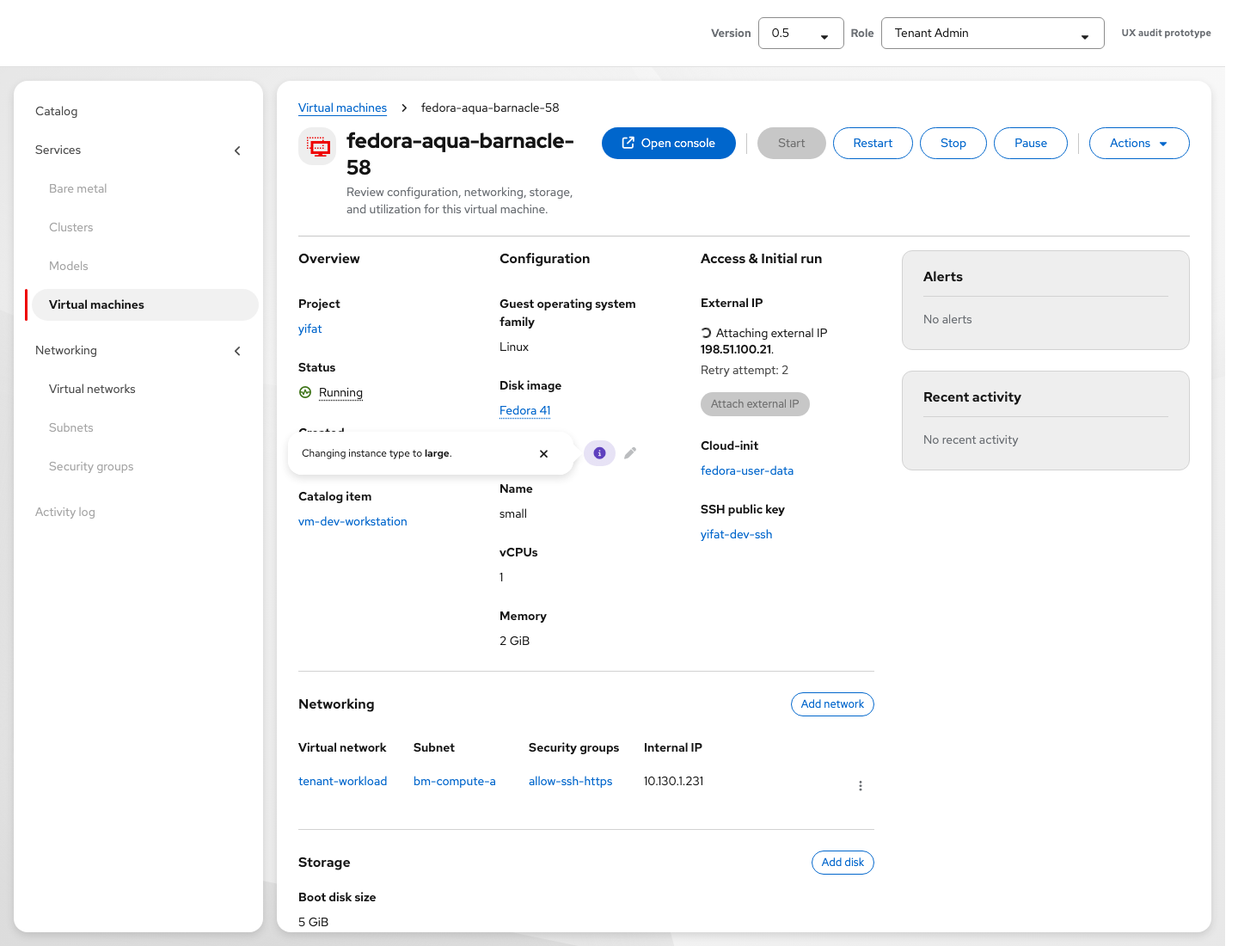
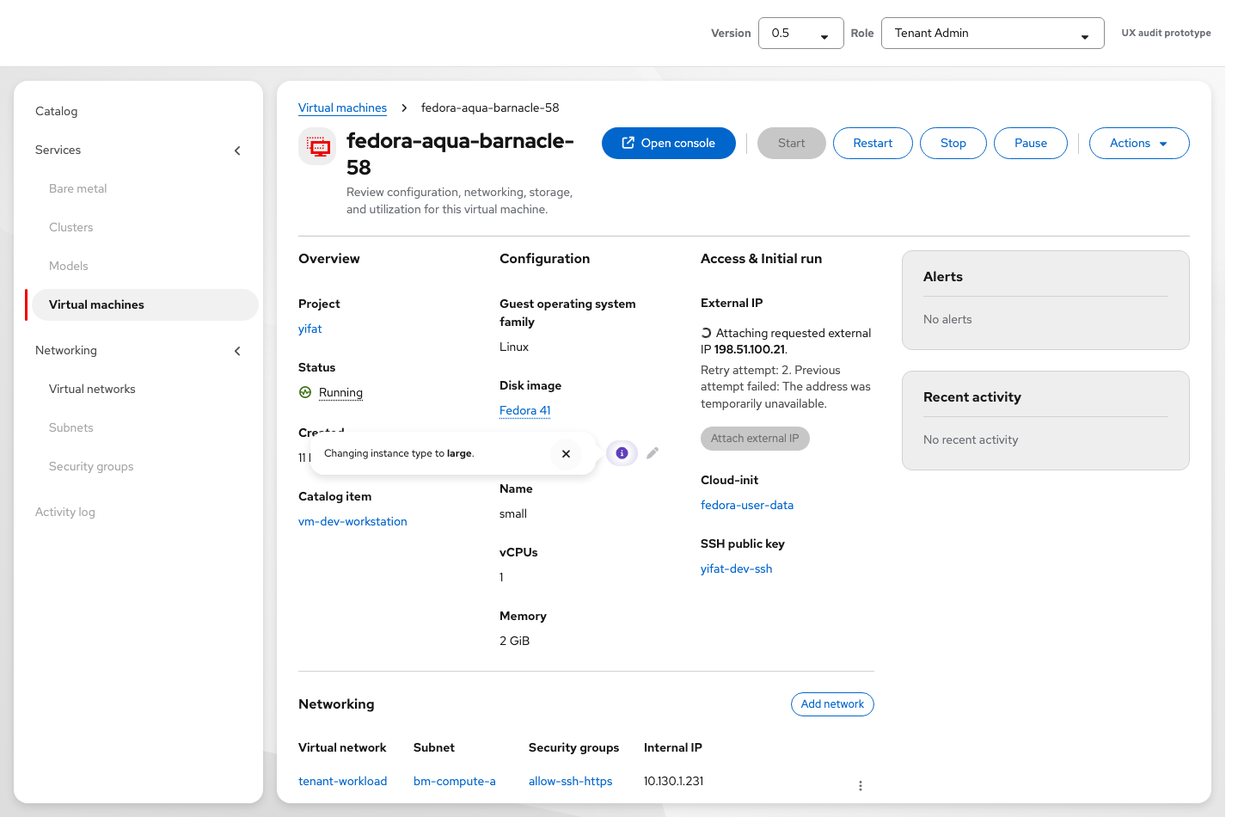
OSAC-7158: clarify configuration operation feedback
Assisted-by: Cursor <cursoragent@cursor.com>

diff --git a/apps/app-frontend/public/vmaas-ux-prototype.html b/apps/app-frontend/public/vmaas-ux-prototype.html
@@ -1338,10 +1338,16 @@
     .vm-configuration-label {
       display: inline-flex;
       align-items: center;
+      border: 0;
+      padding: 0;
+      background: transparent;
+      cursor: pointer;
+      font-family: inherit;
       color: var(--pf-t--global--text--color--subtle, #6a6e73);
       font-size: 14px;
       text-align: left;
     }
+    .vm-configuration-label:hover { text-decoration: underline dotted; text-underline-offset: 3px; }
     .vm-configuration-label--failed { color: var(--pf-t--global--text--color--status--danger--default, #c9190b); }
     .vm-configuration-label:focus-visible {
       outline: 2px solid var(--vmaas-blue);
@@ -2283,14 +2289,14 @@
       width: min(100vw - 24px, 18.75rem);
     }
     #nic-detail-popover.pf-m-open { display: block; }
-    #status-popover {
+    #status-popover, #vm-configuration-popover {
       position: fixed;
       z-index: 10000;
       display: none;
       width: min(100vw - 24px, 18.75rem);
     }
-    #status-popover.pf-m-open { display: block; }
-    #status-popover[hidden] { display: none !important; }
+    #status-popover.pf-m-open, #vm-configuration-popover.pf-m-open { display: block; }
+    #status-popover[hidden], #vm-configuration-popover[hidden] { display: none !important; }
     #nic-detail-popover .nic-detail-dl {
       display: grid;
       grid-template-columns: max-content 1fr;
@@ -8550,7 +8556,7 @@
         computeResource: 'large',
         activeComputeId: 'small',
         resizeProgress: {
-          phase: 'hot', retryAttempt: 2, retryLimit: 3, startedAtMs: Date.now() - 2 * 60000,
+          phase: 'hot', retryAttempt: 2, retryLimit: 3, lastFailureReason: 'The instance type was temporarily unavailable.', startedAtMs: Date.now() - 2 * 60000,
           startedAt: new Date(Date.now() - 2 * 60000).toLocaleString('en-GB'),
           lastUpdatedAt: new Date(Date.now() - 60000).toLocaleString('en-GB'),
           changes: [
@@ -8584,8 +8590,8 @@
       { name: 'rhel-deleting-cedar-42', ns: 'yifat', status: 'deleting', os: 'RHEL', osFull: 'Red Hat Enterprise Linux 9', imageLabel: 'RHEL 9.4', catalogItem: 'vm-inference-standard', conditions: ['Deleting=True'], node: 'cnvge-079.lab.eng.thv2.redhat.com', ip: '10.130.1.242', internalIp: '10.130.1.242', externalIp: '198.51.100.24', externalIpAttached: true, externalIpStatus: 'attached', created: '19 Nov 2026, 15:40', computeResource: 'small', nics: [{ name: 'tenant-workload', virtualNetwork: 'tenant-workload', subnet: 'bm-compute-a', securityGroups: ['allow-ssh-https'], ip: '10.130.1.242' }] },
       { name: 'rhel9-black-gunnysack-58', ns: 'project-a', status: 'running', os: 'RHEL', osFull: 'Red Hat Enterprise Linux 9', imageLabel: 'RHEL 9.4', catalogItem: 'vm-gpu-training-server', conditions: ['DataVolumesReady=True', 'Ready=True'], node: 'cnvge-080.lab.eng.thv2.redhat.com', ip: '10.130.1.224', created: '19 Jan 2026, 7:29', computeResource: 'large-gpu', gpuDevices: [{ name: 'NVIDIA A100 80 GB' }], hostDevices: [{ name: 'host-pci-1' }], sshSecretId: 'ssh-cluster-admin', cloudInitSource: 'inline', cloudInit: '#cloud-config\npackages:\n  - nginx\n', bootDiskAccessMode: 'RWO' },
       { name: 'windows-golden-eider-58', ns: 'project-a', status: 'stopped', os: 'Windows', osFull: 'Microsoft Windows Server 2022', imageLabel: 'Windows Server 2022', catalogItem: 'vm-windows-workstation', conditions: ['Ready=True'], node: 'cnvge-079.lab.eng.thv2.redhat.com', ip: '—', created: '11 Feb 2026, 9:48', sysprepConfigured: true, sysprepSecretId: 'sysprep-corp-std', bootDiskAccessMode: 'RWO' },
-      { name: 'fedora-aqua-barnacle-58', ns: 'yifat', status: 'running', os: 'Fedora', osFull: 'Fedora Linux 41', imageLabel: 'Fedora 41', catalogItem: 'vm-dev-workstation', conditions: ['DataVolumesReady=True', 'LiveMigratable=True'], node: 'cnvge-081.lab.eng.thv2.redhat.com', ip: '10.130.1.231', created: '11 Feb 2026, 8:49', computeResource: 'large', activeComputeId: 'small', resizeProgress: { phase: 'after-restart', startedAtMs: Date.now() - 8 * 60000, startedAt: new Date(Date.now() - 8 * 60000).toLocaleString('en-GB'), lastUpdatedAt: new Date(Date.now() - 5 * 60000).toLocaleString('en-GB'), changes: [{ section: 'Configuration', label: 'Instance type', from: 'small', to: 'large' }, { section: 'Configuration', label: 'vCPUs', from: '1 vCPU', to: '2 vCPUs' }, { section: 'Configuration', label: 'Memory', from: '2 GiB', to: '8 GiB' }] }, externalIpStatus: 'attaching', externalIpPending: '198.51.100.21', externalIpRetryAttempt: 2, hostDevices: [{ name: 'host-usb-1' }], sshSecretId: 'ssh-yifat-dev', cloudInitSource: 'secret', cloudInitSecretId: 'ud-fedora-init' },
-      { name: 'debian-cobalt-heron-41', ns: 'yifat', status: 'running', os: 'Other', osFull: 'Debian 12', imageLabel: 'Debian 12', catalogItem: 'vm-dev-workstation', conditions: ['Ready=True'], node: 'cnvge-081.lab.eng.thv2.redhat.com', ip: '10.130.1.238', created: '10 Nov 2026, 16:05', computeResource: 'large', activeComputeId: 'small', resizeFailure: { reason: 'The requested instance type is unavailable. The VM is still using its previous resources.', retryPlanned: false }, bootDiskAccessMode: 'RWO' },
+      { name: 'fedora-aqua-barnacle-58', ns: 'yifat', status: 'running', os: 'Fedora', osFull: 'Fedora Linux 41', imageLabel: 'Fedora 41', catalogItem: 'vm-dev-workstation', conditions: ['DataVolumesReady=True', 'LiveMigratable=True'], node: 'cnvge-081.lab.eng.thv2.redhat.com', ip: '10.130.1.231', created: '11 Feb 2026, 8:49', computeResource: 'large', activeComputeId: 'small', resizeProgress: { phase: 'after-restart', startedAtMs: Date.now() - 8 * 60000, startedAt: new Date(Date.now() - 8 * 60000).toLocaleString('en-GB'), lastUpdatedAt: new Date(Date.now() - 5 * 60000).toLocaleString('en-GB'), changes: [{ section: 'Configuration', label: 'Instance type', from: 'small', to: 'large' }, { section: 'Configuration', label: 'vCPUs', from: '1 vCPU', to: '2 vCPUs' }, { section: 'Configuration', label: 'Memory', from: '2 GiB', to: '8 GiB' }] }, externalIpStatus: 'attaching', externalIpPending: '198.51.100.21', externalIpRetryAttempt: 2, externalIpLastFailureReason: 'The address was temporarily unavailable.', hostDevices: [{ name: 'host-usb-1' }], sshSecretId: 'ssh-yifat-dev', cloudInitSource: 'secret', cloudInitSecretId: 'ud-fedora-init' },
+      { name: 'debian-cobalt-heron-41', ns: 'yifat', status: 'running', os: 'Other', osFull: 'Debian 12', imageLabel: 'Debian 12', catalogItem: 'vm-dev-workstation', conditions: ['Ready=True'], node: 'cnvge-081.lab.eng.thv2.redhat.com', ip: '10.130.1.238', created: '10 Nov 2026, 16:05', computeResource: 'large', activeComputeId: 'small', resizeFailure: { reason: 'The requested instance type is unavailable. The VM is still using its previous resources.', retryPlanned: false }, externalIpStatus: 'failed', externalIpAttempted: '198.51.100.99', externalIpError: 'We couldn’t attach external IP 198.51.100.99 to this VM.', externalIpRetryPlanned: false, bootDiskAccessMode: 'RWO' },
       { name: 'ubuntu-copper-ibis-31', ns: 'project-a', status: 'running', os: 'Other', osFull: 'Ubuntu 24.04 LTS', imageLabel: 'Ubuntu 24.04 LTS', catalogItem: 'vm-dev-workstation', conditions: ['Ready=True'], node: 'cnvge-081.lab.eng.thv2.redhat.com', ip: '10.130.1.239', created: '18 Nov 2026, 11:40', computeResource: 'large', activeComputeId: 'small', resizeFailure: { reason: 'The requested instance type is unavailable. The VM is still using its previous resources.', retryPlanned: false }, externalIpStatus: 'attaching', externalIpPending: '198.51.100.22', externalIpRetryAttempt: 2, bootDiskAccessMode: 'RWO' },
       { name: 'rhel8-mystic-eagle-22', ns: 'vmaas', status: 'ErrorPvcNotFound', os: 'RHEL', osFull: 'Red Hat Enterprise Linux 8', imageLabel: 'RHEL 8.10', catalogItem: 'vm-legacy-app-server', conditions: ['Provisioning=False', 'Ready=False'], node: 'cnvge-080.lab.eng.thv2.redhat.com', ip: '—', created: '22 Jan 2026, 14:42', alerts: [{ severity: 'warning', message: 'Boot disk is unavailable' }, { severity: 'warning', message: 'Virtual machine is not Ready' }], bootDiskAccessMode: 'RWO' },
       { name: 'gpu-provisioning-failed', ns: 'project-a', status: 'starting', provisioningFailed: true, provisioningFailureReason: 'ProvisioningFailed', provisioningFailureMessage: 'AAP job failed', os: 'RHEL', osFull: 'Red Hat Enterprise Linux 9', imageLabel: 'RHEL 9.4', computeResource: 'small-gpu', conditions: ['PROVISIONED=False', 'ProvisioningFailed'], node: '—', ip: '—', created: '9 Nov 2026, 15:57' },
@@ -9012,11 +9018,73 @@
       const ipTarget = vm.externalIpPending || vm.externalIpAttempted || 'the selected address';
       if (ipStatus === 'failed') details.push(`External IP attachment for ${ipTarget} failed`);
       else if (ipStatus === 'attaching') details.push(`Attaching external IP ${ipTarget}`);
-      const tooltip = `${details.join('; ')}.`;
-      return `<span class="vm-configuration-label${failed ? ' vm-configuration-label--failed' : ''}"
-        data-pf-tooltip="${escAttr(tooltip)}" aria-label="${escAttr(`${label}. ${tooltip}`)}" tabindex="0">
+      const summary = `${details.join('; ')}.`;
+      return `<button type="button" class="vm-configuration-label${failed ? ' vm-configuration-label--failed' : ''}"
+        data-vm-configuration="${escAttr(vm.name)}" aria-label="${escAttr(`${label}. ${summary}`)}"
+        aria-haspopup="dialog" aria-expanded="false" aria-controls="vm-configuration-popover">
         <span>${label}</span>
-      </span>`;
+      </button>`;
+    }
+
+    let vmConfigurationPopoverTrigger = null;
+    function closeVmConfigurationPopover() {
+      const pop = document.getElementById('vm-configuration-popover');
+      if (!pop) return;
+      pop.hidden = true;
+      pop.classList.remove('pf-m-open');
+      vmConfigurationPopoverTrigger?.setAttribute('aria-expanded', 'false');
+      vmConfigurationPopoverTrigger = null;
+    }
+
+    function wireVmConfigurationPopover() {
+      if (document.body.dataset.vmConfigurationPopoverWired) return;
+      document.body.dataset.vmConfigurationPopoverWired = '1';
+      document.addEventListener('click', e => {
+        if (e.target.closest('#vm-configuration-popover-close')) {
+          const trigger = vmConfigurationPopoverTrigger;
+          closeVmConfigurationPopover();
+          trigger?.focus();
+          return;
+        }
+        const trigger = e.target.closest('[data-vm-configuration]');
+        if (!trigger) {
+          if (!e.target.closest('#vm-configuration-popover')) closeVmConfigurationPopover();
+          return;
+        }
+        if (trigger === vmConfigurationPopoverTrigger) {
+          closeVmConfigurationPopover();
+          return;
+        }
+        const vm = VMS.find(v => v.name === trigger.dataset.vmConfiguration);
+        const pop = document.getElementById('vm-configuration-popover');
+        const body = document.getElementById('vm-configuration-popover-body');
+        if (!vm || !pop || !body) return;
+        closeVmConfigurationPopover();
+        const items = [];
+        const target = escAttr(resolveVmComputeId(vm) || 'the requested instance type');
+        if (vm.resizeFailure) items.push(`Resize to <strong>${target}</strong> failed.`);
+        else if (vm.resizeProgress) {
+          const retry = Number(vm.resizeProgress.retryAttempt);
+          const reason = vm.resizeProgress.lastFailureReason;
+          items.push(`Resizing to <strong>${target}</strong>.${retry > 1 ? ` Retry attempt: ${retry}.${reason ? ` Previous attempt failed: ${escAttr(reason)}` : ''}` : ''}`);
+        } else if (vm.restartRequired?.changes?.length) items.push(`Resize to <strong>${target}</strong> is waiting for restart.`);
+        const ip = escAttr(vm.externalIpPending || vm.externalIpAttempted || 'the selected address');
+        if (vmExternalIpStatus(vm) === 'failed') items.push(`External IP <strong>${ip}</strong> failed to attach.`);
+        else if (vmExternalIpStatus(vm) === 'attaching') {
+          const retry = Number(vm.externalIpRetryAttempt);
+          items.push(`Attaching external IP <strong>${ip}</strong>.${retry > 1 ? ` Retry attempt: ${retry}.${vm.externalIpLastFailureReason ? ` Previous attempt failed: ${escAttr(vm.externalIpLastFailureReason)}` : ''}` : ''}`);
+        }
+        body.innerHTML = `<ul class="pf-v6-c-list">${items.map(item => `<li>${item}</li>`).join('')}</ul>`;
+        vmConfigurationPopoverTrigger = trigger;
+        trigger.setAttribute('aria-expanded', 'true');
+        positionDetailPopover(pop, trigger, 'vm-configuration-popover-close');
+      });
+      document.addEventListener('keydown', e => {
+        if (e.key !== 'Escape' || !vmConfigurationPopoverTrigger) return;
+        const trigger = vmConfigurationPopoverTrigger;
+        closeVmConfigurationPopover();
+        trigger.focus();
+      });
     }
 
     function vmRequiresGpu(vm) {
@@ -9601,10 +9669,10 @@
       const vm = VMS.find(v => v.name === state.selectedVmName);
       if (!vm || !canResizeVmInstanceType(vm)) return;
       const requireGpu = vmRequiresGpu(vm);
-      const selectedId = vm.resizeFailure ? vmActiveComputeId(vm) : resolveVmComputeId(vm);
-      const initialId = selectedId;
+      const initialId = vm.resizeFailure ? vmActiveComputeId(vm) : resolveVmComputeId(vm);
+      const selectedId = vm.resizeFailure ? resolveVmComputeId(vm) : initialId;
       state.editComputeModal = {
-        selectedId: initialId,
+        selectedId,
         initialId,
         resizePath: vmResizePath(vm),
         menuOpen: false,
@@ -14849,7 +14917,9 @@
       closeStorageTierPopover();
       const target = escAttr(trigger.dataset.target || 'the requested instance type');
       const retry = Number(trigger.dataset.retry);
-      body.innerHTML = `<p>Changing instance type to <strong>${target}</strong>.</p>${retry > 1 ? `<p class="vm-config-operation__retry">Retry attempt: ${retry}</p>` : ''}`;
+      const vm = VMS.find(v => v.name === state.selectedVmName);
+      const previousReason = vm?.resizeProgress?.lastFailureReason;
+      body.innerHTML = `<p>Changing instance type to <strong>${target}</strong>.</p>${retry > 1 ? `<p class="vm-config-operation__retry">Retry attempt: ${retry}${previousReason ? `. Previous attempt failed: ${escAttr(previousReason)}` : ''}</p>` : ''}`;
       instanceProgressPopoverTrigger = trigger;
       trigger.setAttribute('aria-expanded', 'true');
       positionDetailPopover(pop, trigger, 'instance-progress-popover-close');
@@ -15578,9 +15648,9 @@
       }
 
       const contentHtml = `
-        ${status === 'attaching' ? `<p class="vm-config-inline" id="vm-external-ip-progress" role="status"><span class="vm-access-section__spinner" aria-hidden="true"></span>Attaching external IP <strong>${escAttr(vm.externalIpPending || 'the selected address')}</strong>.${Number(vm.externalIpRetryAttempt) > 1 ? `<span class="vm-config-operation__retry">Retry attempt: ${Number(vm.externalIpRetryAttempt)}</span>` : ''}</p>` : ''}
+        ${status === 'attaching' ? `<p class="vm-config-inline" id="vm-external-ip-progress" role="status"><span class="vm-access-section__spinner" aria-hidden="true"></span>Attaching requested external IP <strong>${escAttr(vm.externalIpPending || 'the selected address')}</strong>.${Number(vm.externalIpRetryAttempt) > 1 ? `<span class="vm-config-operation__retry">Retry attempt: ${Number(vm.externalIpRetryAttempt)}${vm.externalIpLastFailureReason ? `. Previous attempt failed: ${escAttr(vm.externalIpLastFailureReason)}` : ''}</span>` : ''}</p>` : ''}
         ${status === 'failed' ? `<p class="vm-config-inline" role="status">External IP <strong>${escAttr(vm.externalIpAttempted || 'the selected address')}</strong> is not attached.</p>` : ''}
-        ${addressHtml || actions ? `<div class="vm-access-section__host-row">${addressHtml}${actions}</div>` : ''}
+        ${addressHtml || actions ? `<div class="vm-access-section__host-row">${addressHtml ? `<span>Current external IP: ${addressHtml}</span>` : ''}${actions}</div>` : ''}
         ${autoAttached ? '<p class="vm-access-section__meta">This IP is managed with the VM and is detached only when the VM is deleted.</p>' : ''}`;
 
       return `
@@ -17213,7 +17283,7 @@
       const itSubtitleRow = `
         <div class="ethan-detail-col__subtitle-row">
           <h4 class="ethan-detail-col__subtitle">Instance type</h4>
-          ${v.resizeProgress ? `<button type="button" class="pf-v6-c-button pf-m-plain vm-instance-progress-trigger" data-instance-progress
+          ${v.resizeProgress ? `<span class="vm-access-section__spinner" role="status" aria-label="Instance type change in progress"></span><button type="button" class="pf-v6-c-button pf-m-plain vm-instance-progress-trigger" data-instance-progress
             data-target="${escAttr(resolveVmComputeId(v) || 'the requested instance type')}"
             data-retry="${Number(v.resizeProgress.retryAttempt) || 0}"
             aria-label="Instance type change in progress" aria-haspopup="dialog" aria-expanded="false" aria-controls="instance-progress-popover">
@@ -26283,6 +26353,7 @@
     renderVms();
     renderInstanceTypes();
     wireStatusPopover();
+    wireVmConfigurationPopover();
     wireEditComputeModal();
     wireEditSshModal();
     wireNicDetailPopover();
@@ -26308,6 +26379,16 @@
     } catch (e) { /* ignore */ }
   </script>
 
+  <div class="pf-v6-c-popover pf-m-right" id="vm-configuration-popover" role="dialog" aria-modal="false" aria-labelledby="vm-configuration-popover-title" hidden>
+    <div class="pf-v6-c-popover__arrow"></div>
+    <div class="pf-v6-c-popover__content">
+      <button type="button" class="pf-v6-c-button pf-m-plain pf-v6-c-popover__close" id="vm-configuration-popover-close" aria-label="Close">
+        <span class="pf-v6-c-button__icon"><i class="fas fa-times" aria-hidden="true"></i></span>
+      </button>
+      <header class="pf-v6-c-popover__header"><div class="pf-v6-c-popover__title" id="vm-configuration-popover-title"><h1 class="pf-v6-c-title pf-m-md">Configuration changes</h1></div></header>
+      <div class="pf-v6-c-popover__body" id="vm-configuration-popover-body"></div>
+    </div>
+  </div>
   <div class="pf-v6-c-popover pf-m-right" id="status-popover" role="dialog" aria-modal="true" aria-labelledby="status-popover-title" aria-describedby="status-popover-body" hidden>
     <div class="pf-v6-c-popover__arrow"></div>
     <div class="pf-v6-c-popover__content">

diff --git a/docs/vm-overview-ux-handoff.md b/docs/vm-overview-ux-handoff.md
@@ -9,7 +9,7 @@ VM Overview shows the active instance type, CPU, and memory. Editing the instanc
 
 ## Version 0.5 — configuration operations (OSAC-7158)
 
-The Overview **Status** row shows the VM power state only. Keep active instance type, CPU, memory, and attached external IP as the main values. Keep the instance type name, CPU, memory, and GPU together. While resize applies, an information icon beside the **Instance type** heading opens a keyboard-accessible popover with the target and any known retry attempt. Attachment progress remains beside External IP. The Attach external IP button remains visible but disabled while attachment runs. Use a top-of-page danger alert for failed operations; when two operations fail, list both in one alert. Put the failure reason and **Resize again** action in that alert, without repeating the failure below Instance type. Say **No automatic retry is scheduled** when that is known, so the manual action remains clear. After an attachment failure, keep the attempted address out of the attached-IP value and offer **Attach external IP** to start another selection.
+The Overview **Status** row shows the VM power state only. Keep active instance type, CPU, memory, and attached external IP as the main values. Keep the instance type name, CPU, memory, and GPU together. While resize applies, show a spinner beside **Instance type**; the adjacent information button opens a keyboard-accessible popover with the target, retry attempt, and safe previous failure reason when available. Use the same spinner treatment beside **External IP** while attachment runs. Name the address there as the **requested** IP; label an already attached address as **Current external IP**. The Attach external IP button remains visible but disabled while attachment runs. Use a top-of-page danger alert for failed operations; when two operations fail, list both in one alert. Put the failure reason and **Resize again** action in that alert, without repeating the failure below Instance type. **Resize again** opens the resize dialog with the failed target selected for review; it never silently resubmits. Say **No automatic retry is scheduled** when that is known, so the manual action remains clear. After an attachment failure, keep the attempted address out of the attached-IP value and offer **Attach external IP** to start another selection.
 
 ![Version 0.5 instance type progress icon and External IP progress](screenshots/latest-ux/vm-config-inline-progress-0.5.png)
 
@@ -17,37 +17,41 @@ The Overview **Status** row shows the VM power state only. Keep active instance 
 
 ![Version 0.5 failure alert and Resize again action](screenshots/latest-ux/vm-config-failure-0.5.png)
 
-The [ubuntu-copper-ibis-31 example](https://osac-project.github.io/osac-ux/vmaas-ux-prototype.html?v=848fccb&role=admin&vm=ubuntu-copper-ibis-31) combines a failed resize with external-IP attachment still running. The top alert covers the resize failure and offers **Resize again**; IP progress and its disabled Attach button stay beside External IP. In lists and cards, **Changes need attention** takes precedence, while the tooltip names both operations.
+The [ubuntu-copper-ibis-31 example](https://osac-project.github.io/osac-ux/vmaas-ux-prototype.html?v=848fccb&role=admin&vm=ubuntu-copper-ibis-31) combines a failed resize with external-IP attachment still running. The top alert covers the resize failure and offers **Resize again**; IP progress and its disabled Attach button stay beside External IP. In lists and cards, **Changes need attention** takes precedence, while the popover names both operations.
 
 ![Version 0.5 failed resize and active external-IP attachment](screenshots/latest-ux/vm-config-mixed-0.5.png)
 
-![Version 0.5 mixed-operation status tooltip](screenshots/latest-ux/vm-config-status-tooltip-mixed-0.5.png)
+![Version 0.5 mixed-operation status popover](screenshots/latest-ux/vm-config-status-popover-concurrent-0.5.png)
 
 ### Simultaneous changes
 
 Each operation keeps its own state on VM Overview: resize progress is available from the Instance type icon, and external-IP attachment progress stays beside External IP. Only failures appear in the top alert. If several operations fail, use one alert with a bullet for each failure. Keep **Resize again** in the alert and offer the external-IP selection action beside External IP when available. Keep current values visible until each change succeeds.
 
-The VM list and cards still show one configuration line below the power status. Choose its text by priority: **Changes need attention** if any operation failed; otherwise **Changes in progress** if any is running; otherwise **Changes pending** if a change waits for restart. The tooltip lists every outstanding operation and target, so the summary does not hide concurrent work. Remove each operation from the tooltip when it completes, and remove the configuration line when none remain.
+The VM list and cards still show one configuration line below the power status. Choose its text by priority: **Changes need attention** if any operation failed; otherwise **Changes in progress** if any is running; otherwise **Changes pending** if a change waits for restart. Activating the line opens a keyboard-accessible popover with a separate bullet for each outstanding operation and target, so the summary does not hide concurrent work. Remove each operation from the popover when it completes, and remove the configuration line when none remain.
 
-If the service reports a retry, name the attempt in the tooltip and the affected setting's progress detail. If it reports a known prerequisite that blocks a change, explain the prerequisite in plain language in both places. Do not invent a blocker, attempt count, or ETA when the service has not supplied one. Keep **Stopped** as a power state, not a configuration failure. After success, update the active value, remove the outstanding status, and show a brief success toast; do not retain a Completed line.
+If the service reports a retry, name the attempt in the popover and the affected setting's progress detail. If it supplies a safe reason for the preceding failure, show **Previous attempt failed: [reason]** there. If it reports a known prerequisite that blocks a change, explain the prerequisite in plain language in both places. Do not invent a blocker, reason, attempt count, or ETA when the service has not supplied one. Keep **Stopped** as a power state, not a configuration failure. After success, update the active value, remove the outstanding status, and show a brief success toast; do not retain a Completed line.
 
-For example, [fedora-aqua-barnacle-58](https://osac-project.github.io/osac-ux/vmaas-ux-prototype.html?v=848fccb&role=admin&vm=fedora-aqua-barnacle-58) is resizing to **large** while attaching **198.51.100.21**. Its list status is **Changes in progress**, and the tooltip names both operations. In the [mixed failure example](https://osac-project.github.io/osac-ux/vmaas-ux-prototype.html?v=848fccb&role=admin&vm=ubuntu-copper-ibis-31), resize has failed while attachment continues, so **Changes need attention** takes priority.
+For example, [fedora-aqua-barnacle-58](https://osac-project.github.io/osac-ux/vmaas-ux-prototype.html?v=848fccb&role=admin&vm=fedora-aqua-barnacle-58) is resizing to **large** while attaching **198.51.100.21**. Its list status is **Changes in progress**, and the popover names both operations. In the [mixed failure example](https://osac-project.github.io/osac-ux/vmaas-ux-prototype.html?v=848fccb&role=admin&vm=ubuntu-copper-ibis-31), resize has failed while attachment continues, so **Changes need attention** takes priority.
 
-![Version 0.5 simultaneous changes in the list tooltip](screenshots/latest-ux/vm-config-status-tooltip-concurrent-0.5.png)
+![Version 0.5 simultaneous changes in the list popover](screenshots/latest-ux/vm-config-status-popover-concurrent-0.5.png)
 
-When a resize requires a restart, show a **Restart required** warning above Overview. It is collapsed by default; expanding it explains the required action and shows the current and requested instance type, vCPUs, and memory. Keep the current resource values in Configuration without repeating the warning there. This actionable warning is the exception to failure-only top alerts. In VM lists and cards, show one text-only configuration status on a second line below the icon-and-text power status: subdued gray **Changes pending** or **Changes in progress**, or **Changes need attention** in the failure color. Do not add an icon to the configuration status. The tooltip names each relevant operation and target, including external-IP attachment. Remove it once no work is outstanding.
+The [two-failure example](https://osac-project.github.io/osac-ux/vmaas-ux-prototype.html?role=admin&vm=debian-cobalt-heron-41) shows resize and external-IP failure as separate bullets in one alert. The IP remains unattached; **Resize again** opens the resize dialog with **large** selected for review.
+
+![Version 0.5 two failed changes in one alert](screenshots/latest-ux/vm-config-two-failures-0.5.png)
+
+When a resize requires a restart, show a **Restart required** warning above Overview. It is collapsed by default; expanding it explains the required action and shows the current and requested instance type, vCPUs, and memory. Keep the current resource values in Configuration without repeating the warning there. This actionable warning is the exception to failure-only top alerts. In VM lists and cards, show one text-only configuration status on a second line below the icon-and-text power status: subdued gray **Changes pending** or **Changes in progress**, or **Changes need attention** in the failure color. Do not add an icon to the configuration status. The popover names each relevant operation and target, including external-IP attachment. Remove it once no work is outstanding.
 
 ![Version 0.5 collapsed top restart warning](screenshots/latest-ux/vm-config-restart-0.5.png)
 
 ![Version 0.5 expanded top restart warning](screenshots/latest-ux/vm-config-restart-expanded-0.5.png)
 
-In card and table views, the VM list shows one configuration status below the power status. Its tooltip lists every outstanding operation and target.
+In card and table views, the VM list shows one configuration status below the power status. Activating it opens a popover that lists every outstanding operation and target.
 
 ![Version 0.5 VM cards with configuration status below power status](screenshots/latest-ux/vm-config-status-cards-0.5.png)
 
 ![Version 0.5 VM table with configuration status below power status](screenshots/latest-ux/vm-config-status-table-0.5.png)
 
-![Version 0.5 configuration status tooltip](screenshots/latest-ux/vm-config-status-tooltip-0.5.png)
+![Version 0.5 configuration status popover](screenshots/latest-ux/vm-config-status-popover-concurrent-0.5.png)
 
 For access, networking, storage, utilization, failure states, and permissions, follow the [Google UX handoff](https://docs.google.com/document/d/1Y8hjgE924owve0VXA3rkKqTYuB4sXKif8KhXyFL3hyQ/edit).
 
